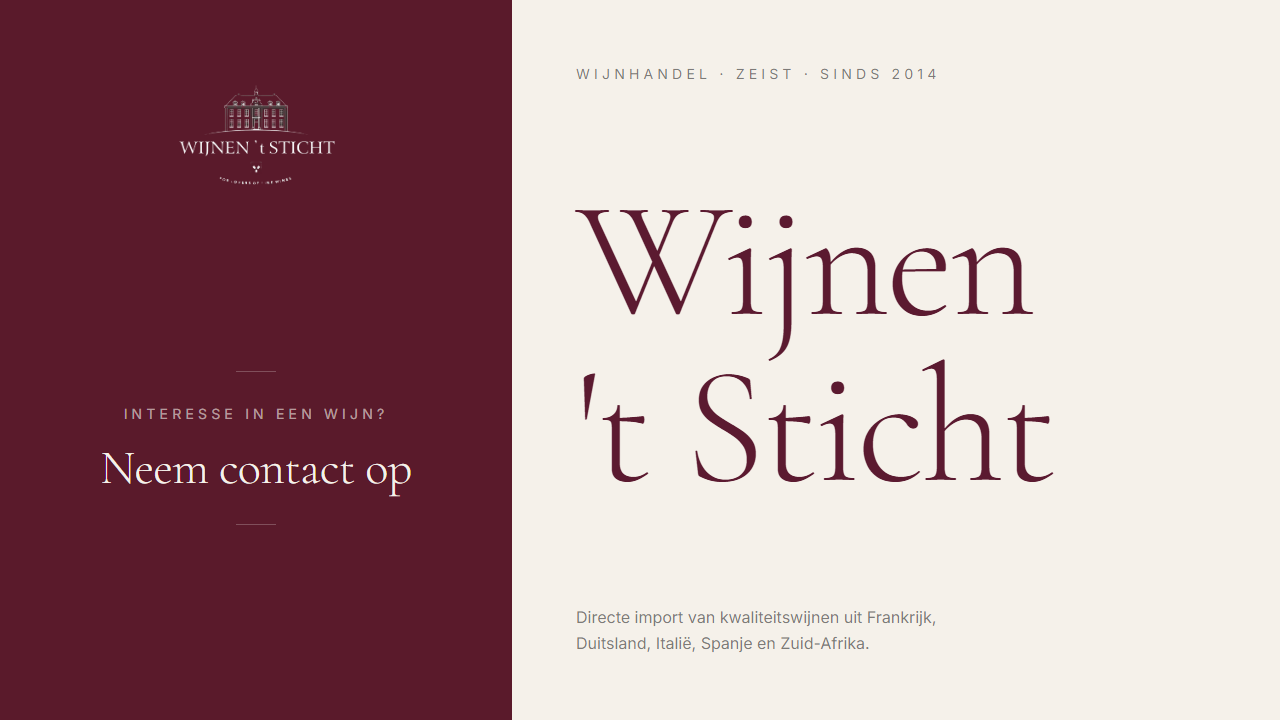
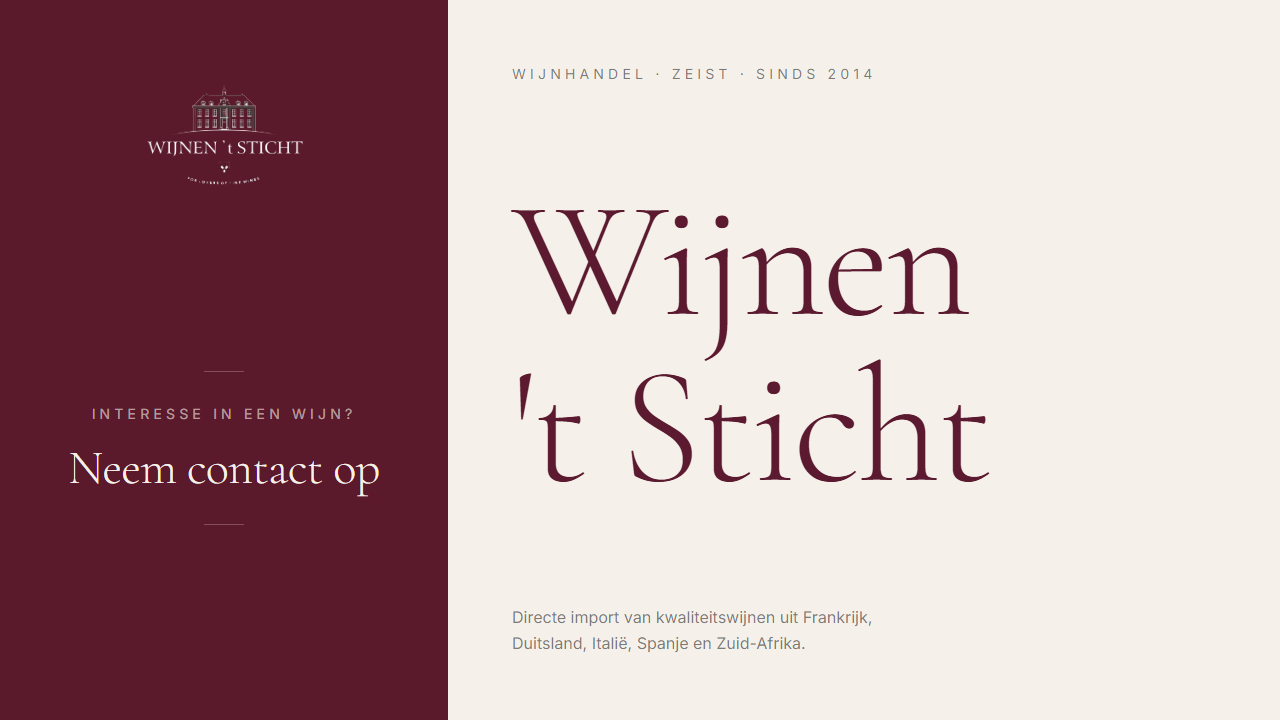
hero update

diff --git a/src/components/Hero.tsx b/src/components/Hero.tsx
@@ -1,9 +1,9 @@
 const Hero = () => {
   return (
-    <section className="grid md:grid-cols-5 min-h-screen">
+    <section className="grid min-h-screen" style={{ gridTemplateColumns: '35% 65%' }}>
 
       {/* Links — bordeaux, 40% */}
-      <div className="md:col-span-2 bg-[#5A1A2B] flex flex-col items-center justify-between py-16 px-10 text-center">
+      <div className="bg-[#5A1A2B] flex flex-col items-center justify-between py-16 px-10 text-center">
 
         {/* Logo bovenin bordeaux */}
         <img
@@ -42,7 +42,7 @@ const Hero = () => {
       </div>
 
       {/* Rechts — crème, 60% */}
-      <div className="md:col-span-3 bg-[#F5F1EA] flex flex-col justify-between py-16 px-10 md:px-16">
+      <div className="bg-[#F5F1EA] flex flex-col justify-between py-16 px-10 md:px-16">
 
         {/* Eyebrow */}
         <p